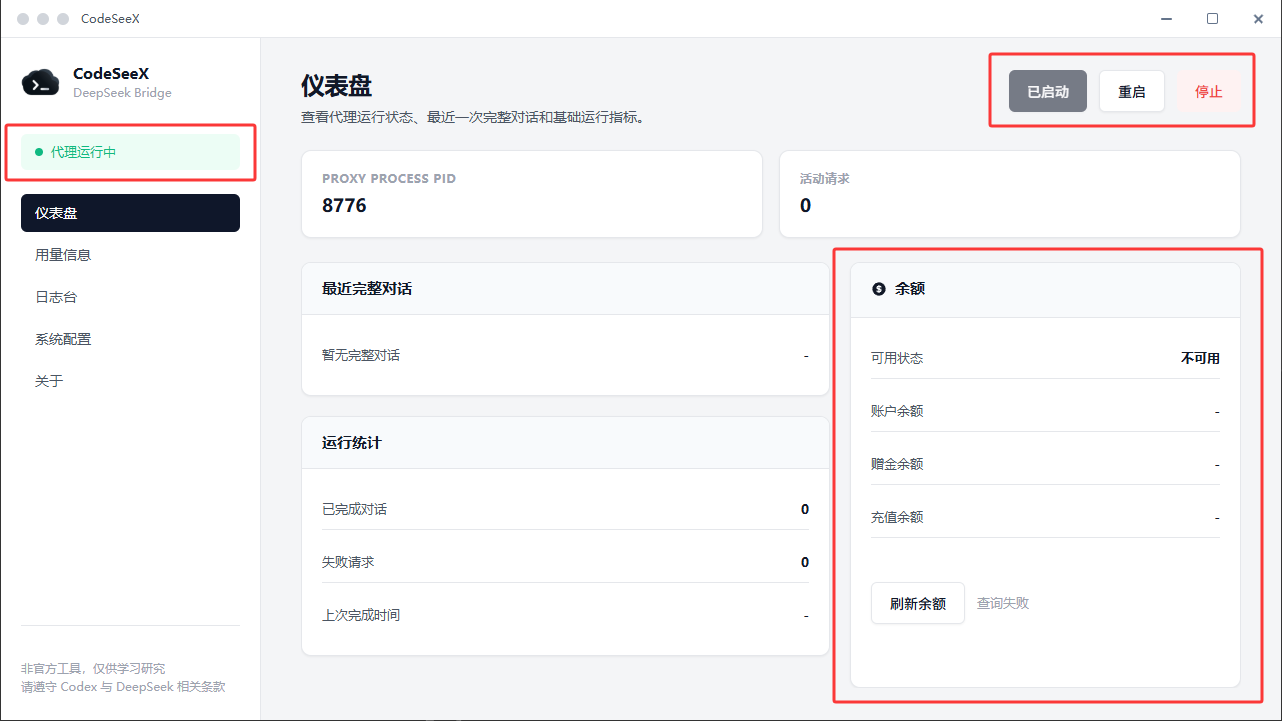
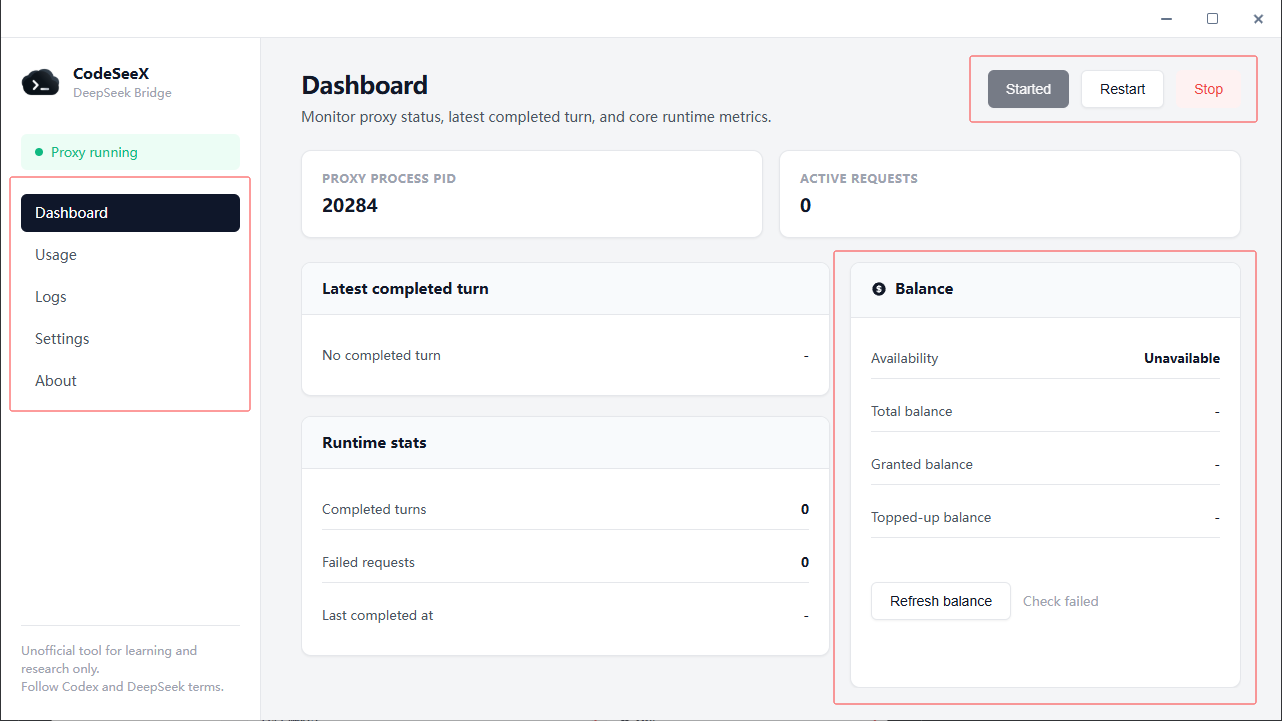
docs: update README screenshots

diff --git a/README.md b/README.md
@@ -76,6 +76,10 @@ CodeSeeX reads API credentials from the user's Codex auth configuration. It does
 
 If you self-host a DeepSeek-compatible service, set the upstream URL in `Settings -> Proxy`. Leave it blank to use the official DeepSeek API.
 
+<p align="center">
+  <img alt="CodeSeeX proxy settings with generated config.toml" src="docs/img/config-toml.png">
+</p>
+
 ## Features
 
 - Codex-compatible local API for `/v1/responses` and related model calls.